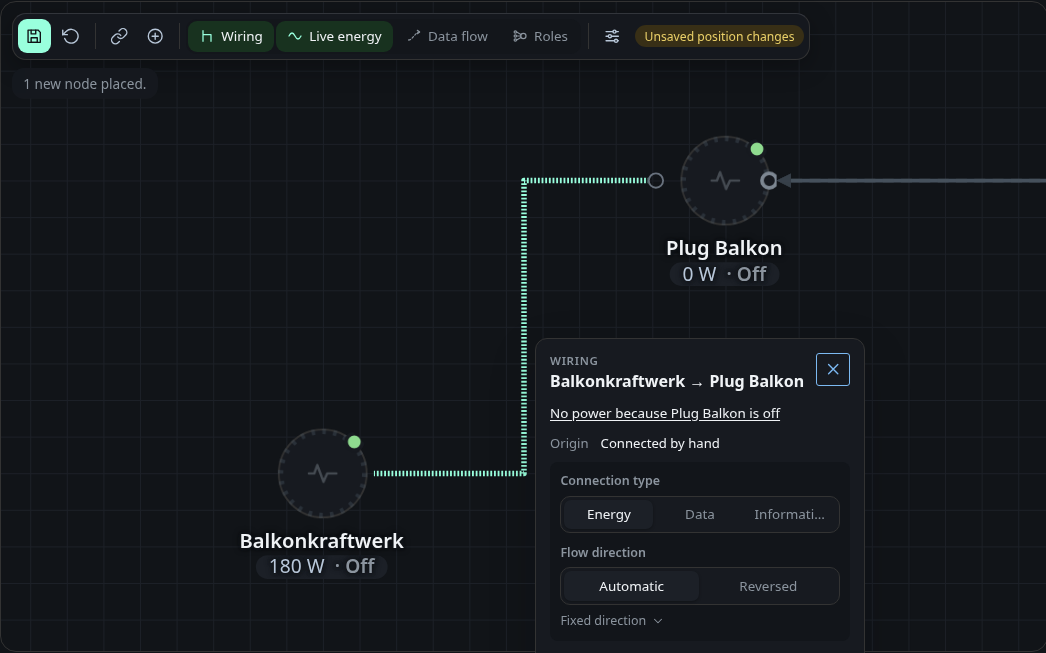
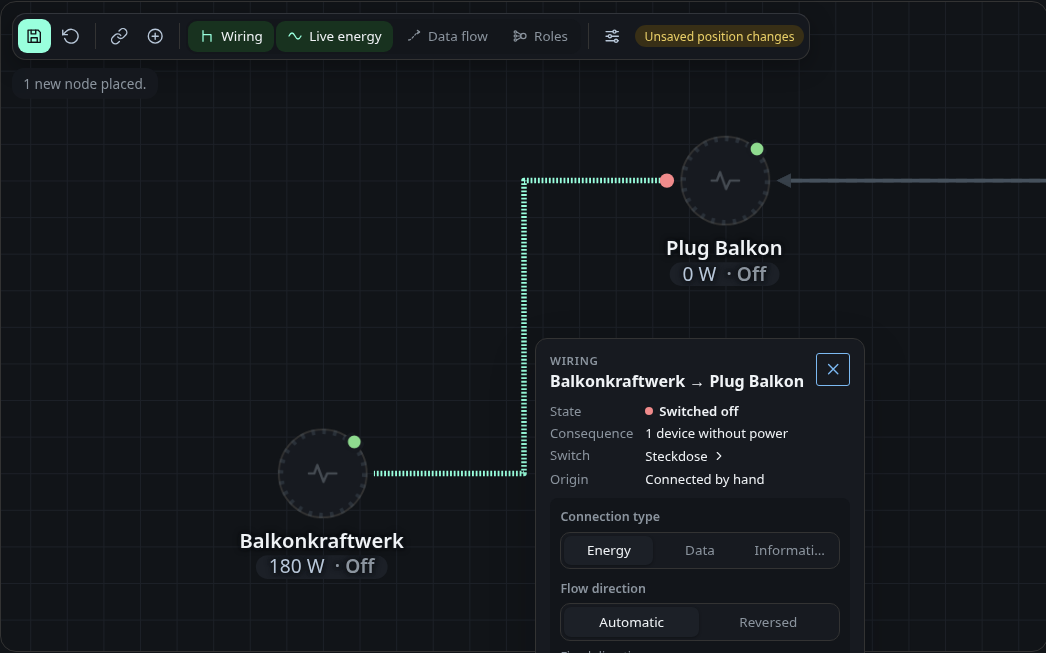
docs(devicemap): document the switch role and retake screenshots

diff --git a/docs/dashboard/device-map.md b/docs/dashboard/device-map.md
@@ -118,20 +118,31 @@ the Energy Node device, a separate balance node stands in for it.
 ![A switched-off plug](../images/dashboard-device-map-switch-off.png)
 
 A smart plug or relay can switch its output off. The map shows this when the
-Wiring or the Live energy layer is on. The device whose output is off is marked
-**Output off**: its value gets a grey pill with "Off", and an open dot sits at its
-connection. Everything that only gets its power through that device is dimmed,
-its flow stops and its outgoing connections turn dotted. In the connection card
-the line "No power because ... is off" names the device that cut the supply and
-links to it.
+Wiring or the Live energy layer is on. Every connection that leaves a switched
+device carries a small filled circle where it starts: green when the switch is
+on, red when it is off and grey when the state is unknown. When the switch is
+off, everything that only gets its power through that connection is dimmed, its
+flow stops and its outgoing connections turn dotted. A device whose switches are
+all off also gets a grey pill with "Off". A switch without an outgoing
+connection keeps its circle on the device itself.
 
-The map finds the output of a device by four rules. The device has exactly one
-switch entity, the switch can be commanded, it is not a configuration or
-diagnostic entity, and the device has a power entity in W or kW. If the rules do
-not fit, open the device panel and set the function of a switch to **Cuts the
-output** or **No function**. The choice is part of the map draft and is saved
-with the map. A device that is off is never itself shown as without power, even
-if another switched-off device feeds it.
+The connection card leads with the state. For a cut connection it shows
+"Switched off", the number of devices without power and the switch. Below a cut
+connection it shows "No power" and the cause, for example "Plug Balkon is off",
+which links to the device.
+
+A switch is an energy role called **Switches**. Set it in the device panel or in
+the energy configuration, like any other role. A device with several switches,
+such as a two channel relay, gets a channel for each of them. Open the card of
+an energy connection and choose the channel it hangs on. Without a choice the
+connection uses channel 1. The channel field only appears for devices with more
+than one switch.
+
+The map suggests the role for a device that has exactly one switch entity, where
+the switch can be commanded, is not a configuration or diagnostic entity and the
+device has a power entity in W or kW. The suggestion is marked "detected" until
+you save a role. A device that is off is never itself shown as without power,
+even if another switched-off device feeds it.
 
 The map only shows the state. To switch a device, use the Devices tab. The link
 in the device panel opens it.

diff --git a/docs/dashboard/energy.md b/docs/dashboard/energy.md
@@ -54,6 +54,13 @@ are summed. The tiles show each role with its value and whether it is fresh and
 live. Power values without a role are listed at the top of the tab, because
 they are the usual reason a balance does not add up.
 
+Switches have their own role, **Switches**, in a separate group. It marks a
+socket or relay output, adds no power to the balance and is read by the device
+map. A device with several switches also gets a channel from 1 to 16 for each
+switch, so the map can tell which connection a switch cuts. Two switches of one
+device cannot share a channel. Switches the dashboard detects stay "detected"
+until you change or save them.
+
 ## Groups
 
 ![Groups with the count as a whole switch](../images/dashboard-energy-groups.png)
